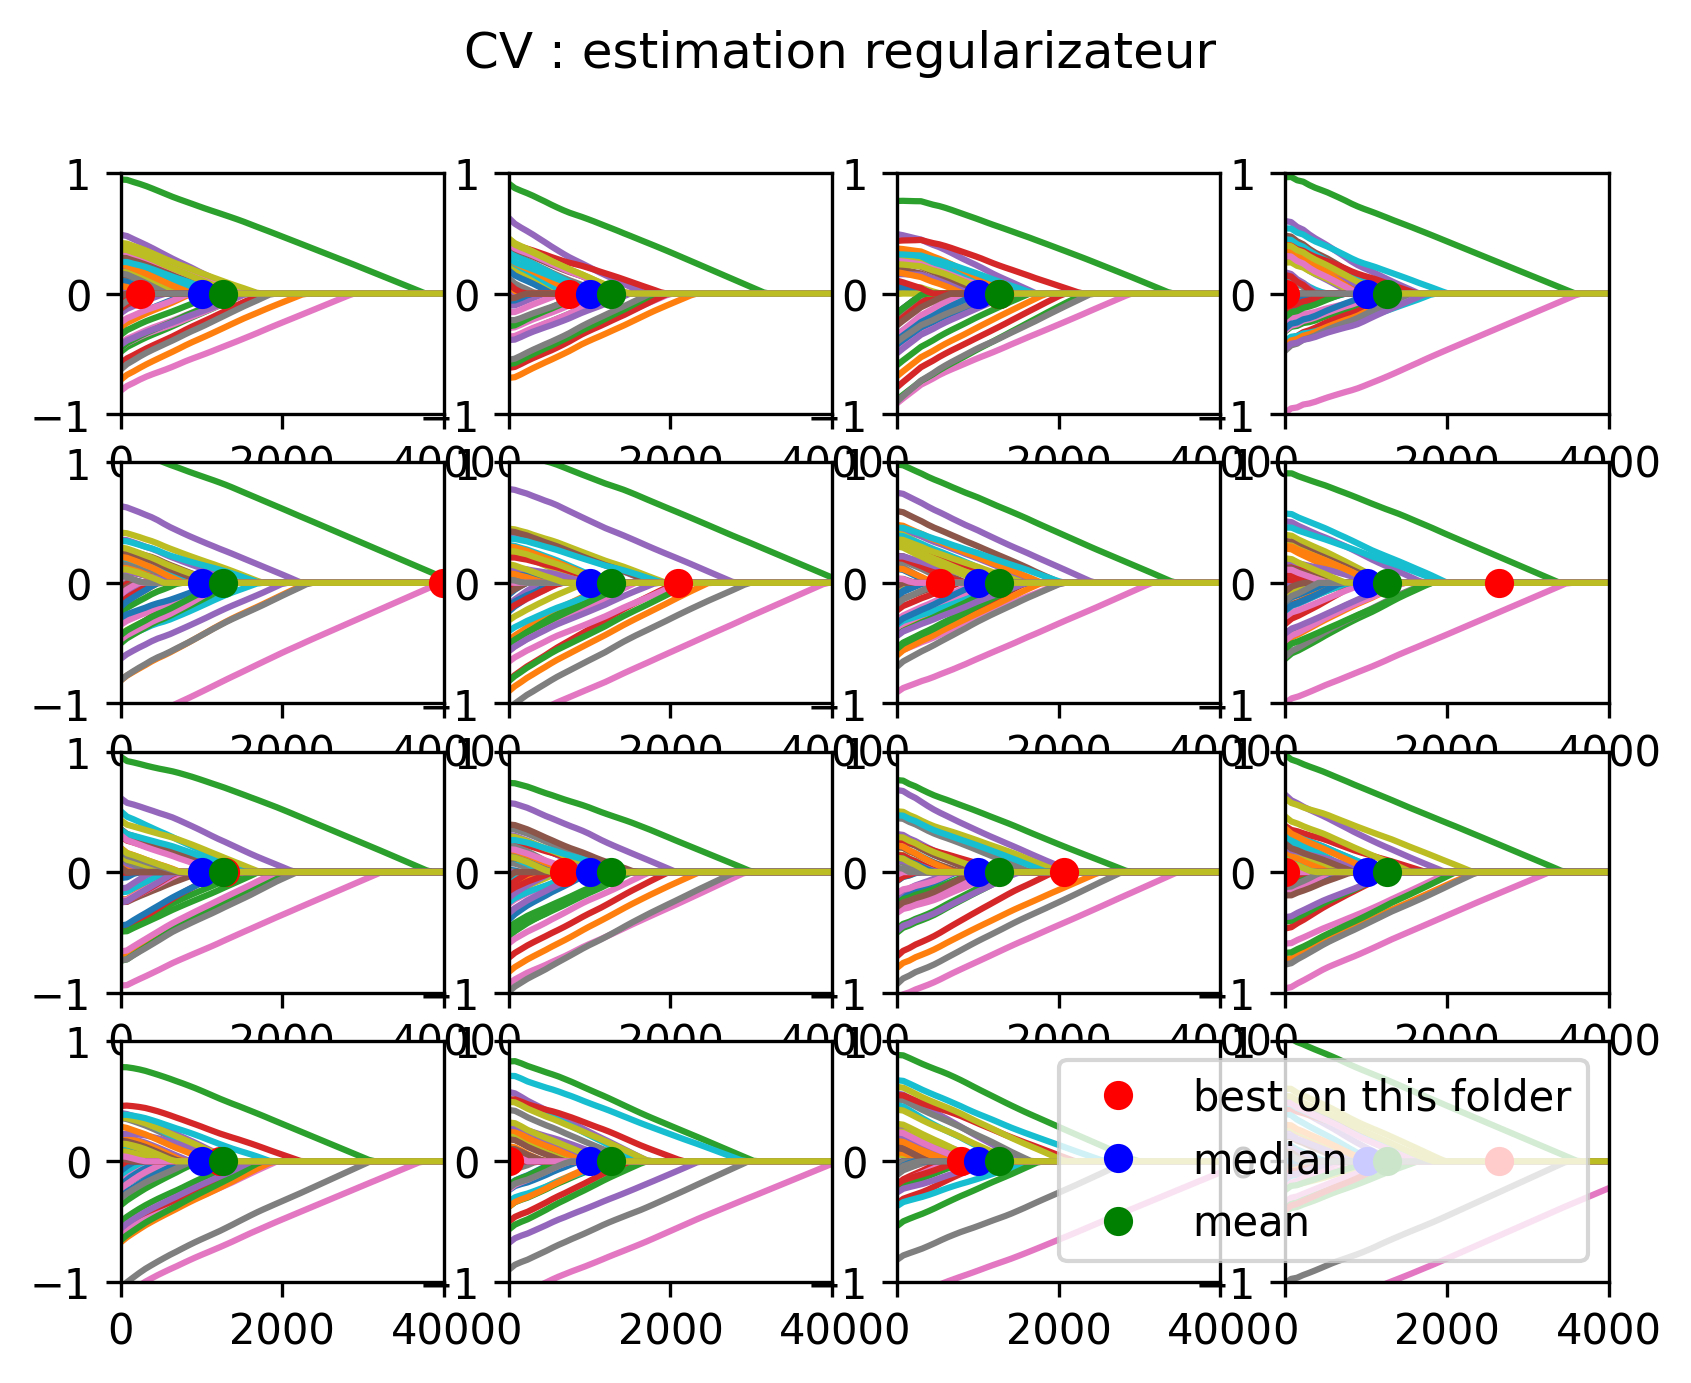
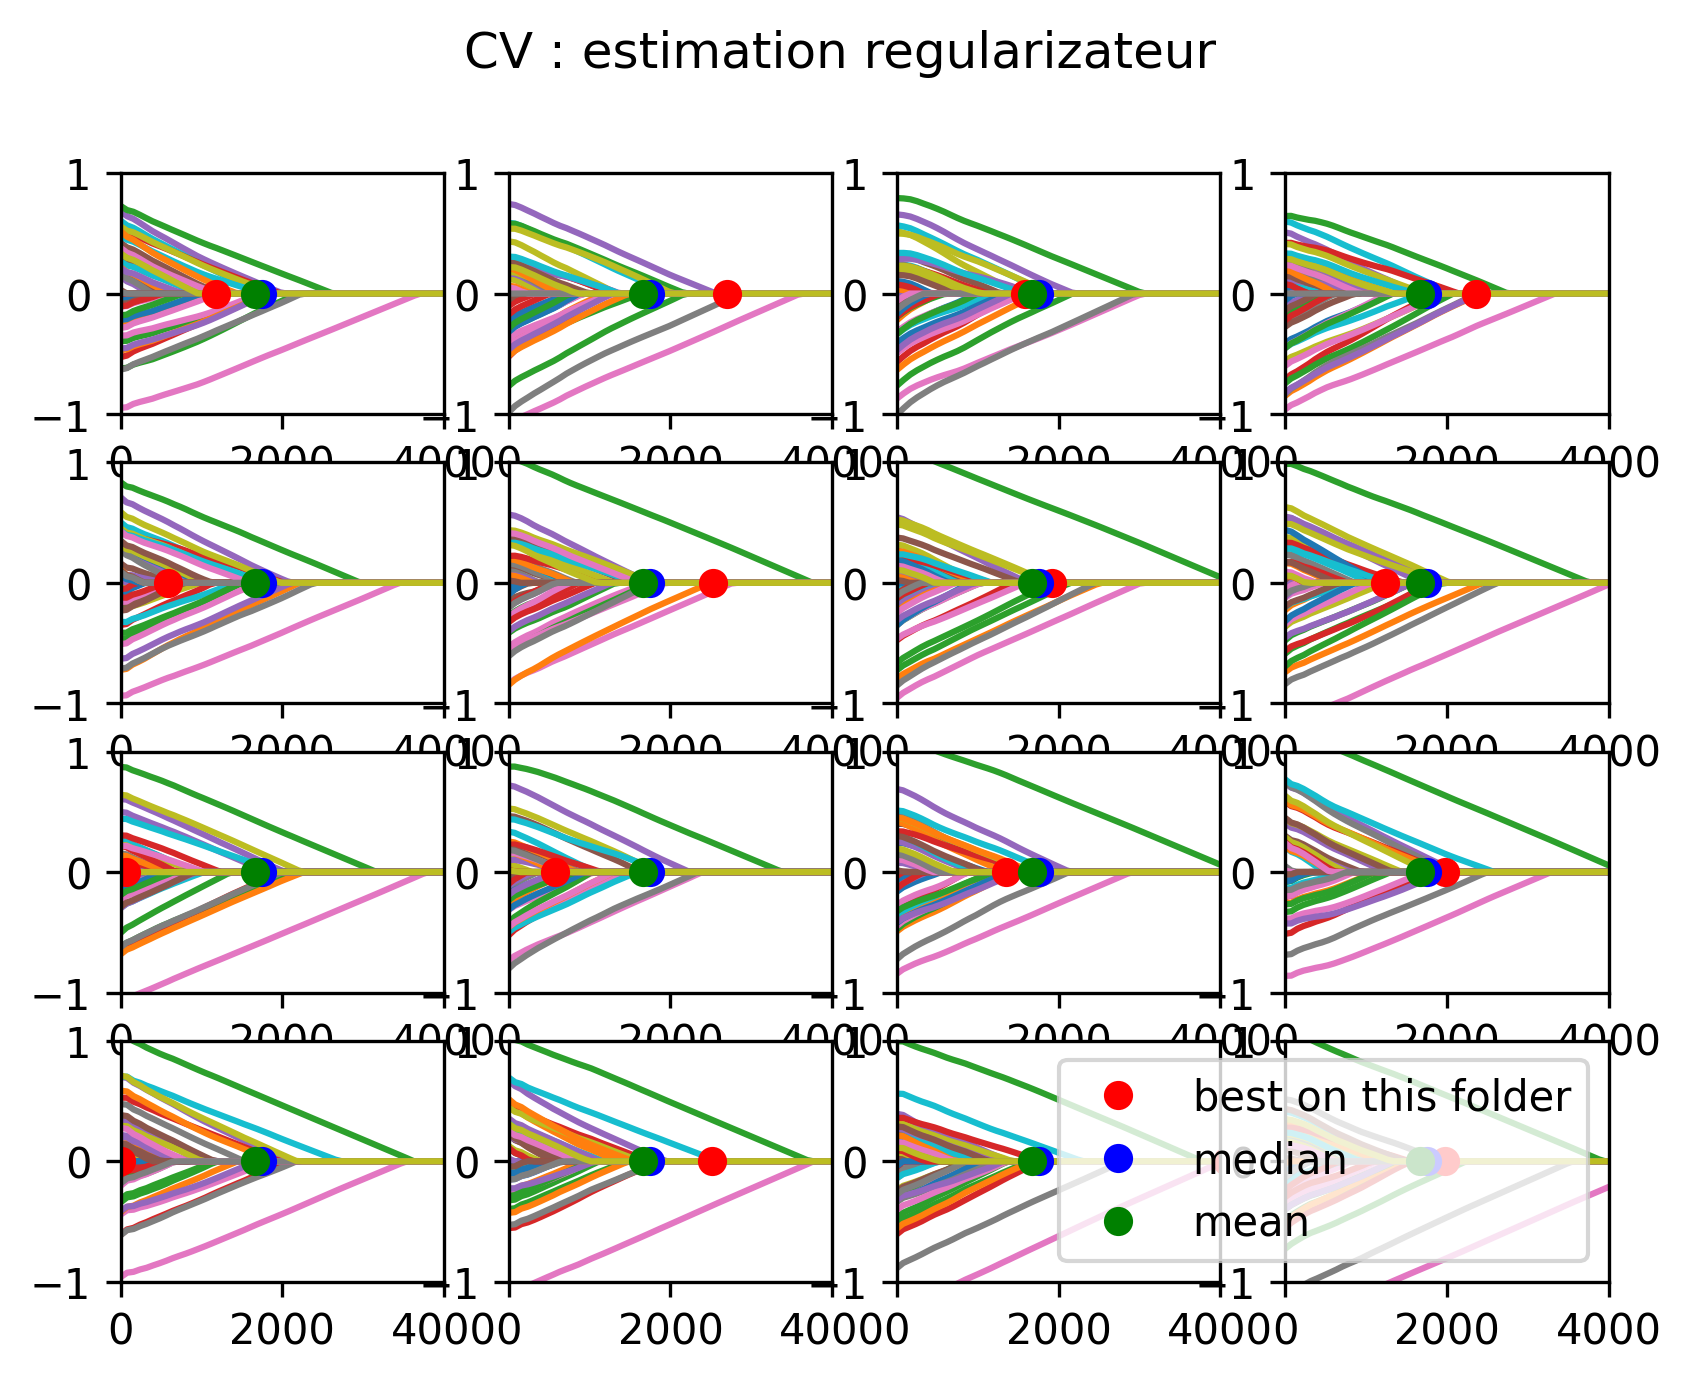
2d histogramm visualisation of every feature with the target
notice that there is a 'direction' for the fourth starting features

diff --git a/preprocess1.py b/preprocess1.py
@@ -1,13 +1,46 @@
 import numpy as np
 import csv
+import matplotlib.pyplot as plt 
 
-out=[]
+data=[]
 with open('./regression_data.csv',newline='') as csvfile:
 	spamreader= csv.reader(csvfile,delimiter = ',')
 	for row in spamreader: 
-		out.append(row)
-out = np.asmatrix(out)
-out =np.array(out[1:],dtype=float)
-y = out[:,1]
-X = out[:,2:]
+		data.append(row)
+data = np.asmatrix(data)
+data =np.array(data[1:],dtype=float)
+data = data[:,1:]
+y = data[:,0]
+X = data[:,1:]
 np.savez('./regression_data1.npz',y=y,X=X)
+
+
+########### visualisation  #################
+
+xedges,yedges=np.linspace(0,1,11),np.linspace(0,1,11)
+from matplotlib.image import NonUniformImage
+y_scale = (y+np.abs(np.min(y)))/(np.max(y)+np.abs(min(y)))
+sort_idx = np.argsort(y)
+y_sort = y_scale[sort_idx]
+X_arrange=((X+np.abs(np.min(X,1).reshape((X.shape[0],1))))/(np.max(X,1)+np.abs(np.min(X,1))).reshape((X.shape[0],1)))[sort_idx]
+columns = 10
+rows = 5
+fig, ax_array = plt.subplots(rows, columns,squeeze=False)
+k=0
+for i,ax_row in enumerate(ax_array):
+	for j,axes in enumerate(ax_row):
+		axes.set_title(str(k).format(i,j))
+		axes.set_yticklabels([])
+		axes.set_xticklabels([])
+		H, xedges,yedges=np.histogram2d(X_arrange[:,k], y_sort ,bins=(xedges,yedges))
+		H = H.T
+		#axes.imshow(H, interpolation='nearest', origin='lower',extent=[xedges[0], xedges[-1], yedges[0], yedges[-1]])
+		im = NonUniformImage(axes, interpolation='bilinear')
+		xcenters = (xedges[:-1] + xedges[1:]) / 2
+		ycenters = (yedges[:-1] + yedges[1:]) / 2
+		im.set_data(xcenters, ycenters, H)
+		axes.images.append(im)
+		k=k+1
+plt.savefig('visu_feature.png')
+plt.show()
+

diff --git a/estimate_reg.py b/estimate_reg.py
@@ -37,8 +37,8 @@ for k in range(num_folder):
 		X_train = np.concatenate((XA,XB))
 		y_train = np.concatenate((yA,yB))
 
-
-	A,L,TOL,NUM_ITER,TIME = warm_start(X_train,y_train,num_lasso_path)
+	nval = X_train.shape[0]
+	A,L,TOL,NUM_ITER,TIME = warm_start((X_train-np.mean(X_train,1).reshape((nval,1)))/np.std(X_train,1).reshape((nval,1)),y_train,num_lasso_path)
 	idx,mse = 0,sys.maxsize
 	for i in range(num_lasso_path):
 		current = np.mean((y_val-(x_val_std*np.dot(X_val,A[i])+x_val_m))**2)
@@ -71,3 +71,6 @@ plt.savefig('cv_reg.png',format='png',dpi=300,bbox_inches='tight')
 plt.show()
 reg=med
 np.savez('./regression_data2.npz',X=X.T[idx_no_zero].T,y=residual)
+#détails ptre sauvegarder que lambda et alpha pour recaluler alpha avec tout le jeu de données (pas de grand changement observable)
+
+print('features which lasso doesnt put to 0',idx_no_zero)

diff --git a/preprocess2.py b/preprocess2.py
@@ -2,5 +2,5 @@ import numpy as np
 from lasso import lasso
 data = np.load('regression_data2.npz')
 X,y = data['X'],data['y']
-print(y.shape)
-print(X.shape)
+print(np.mean(X))
+print(np.mean(y))
